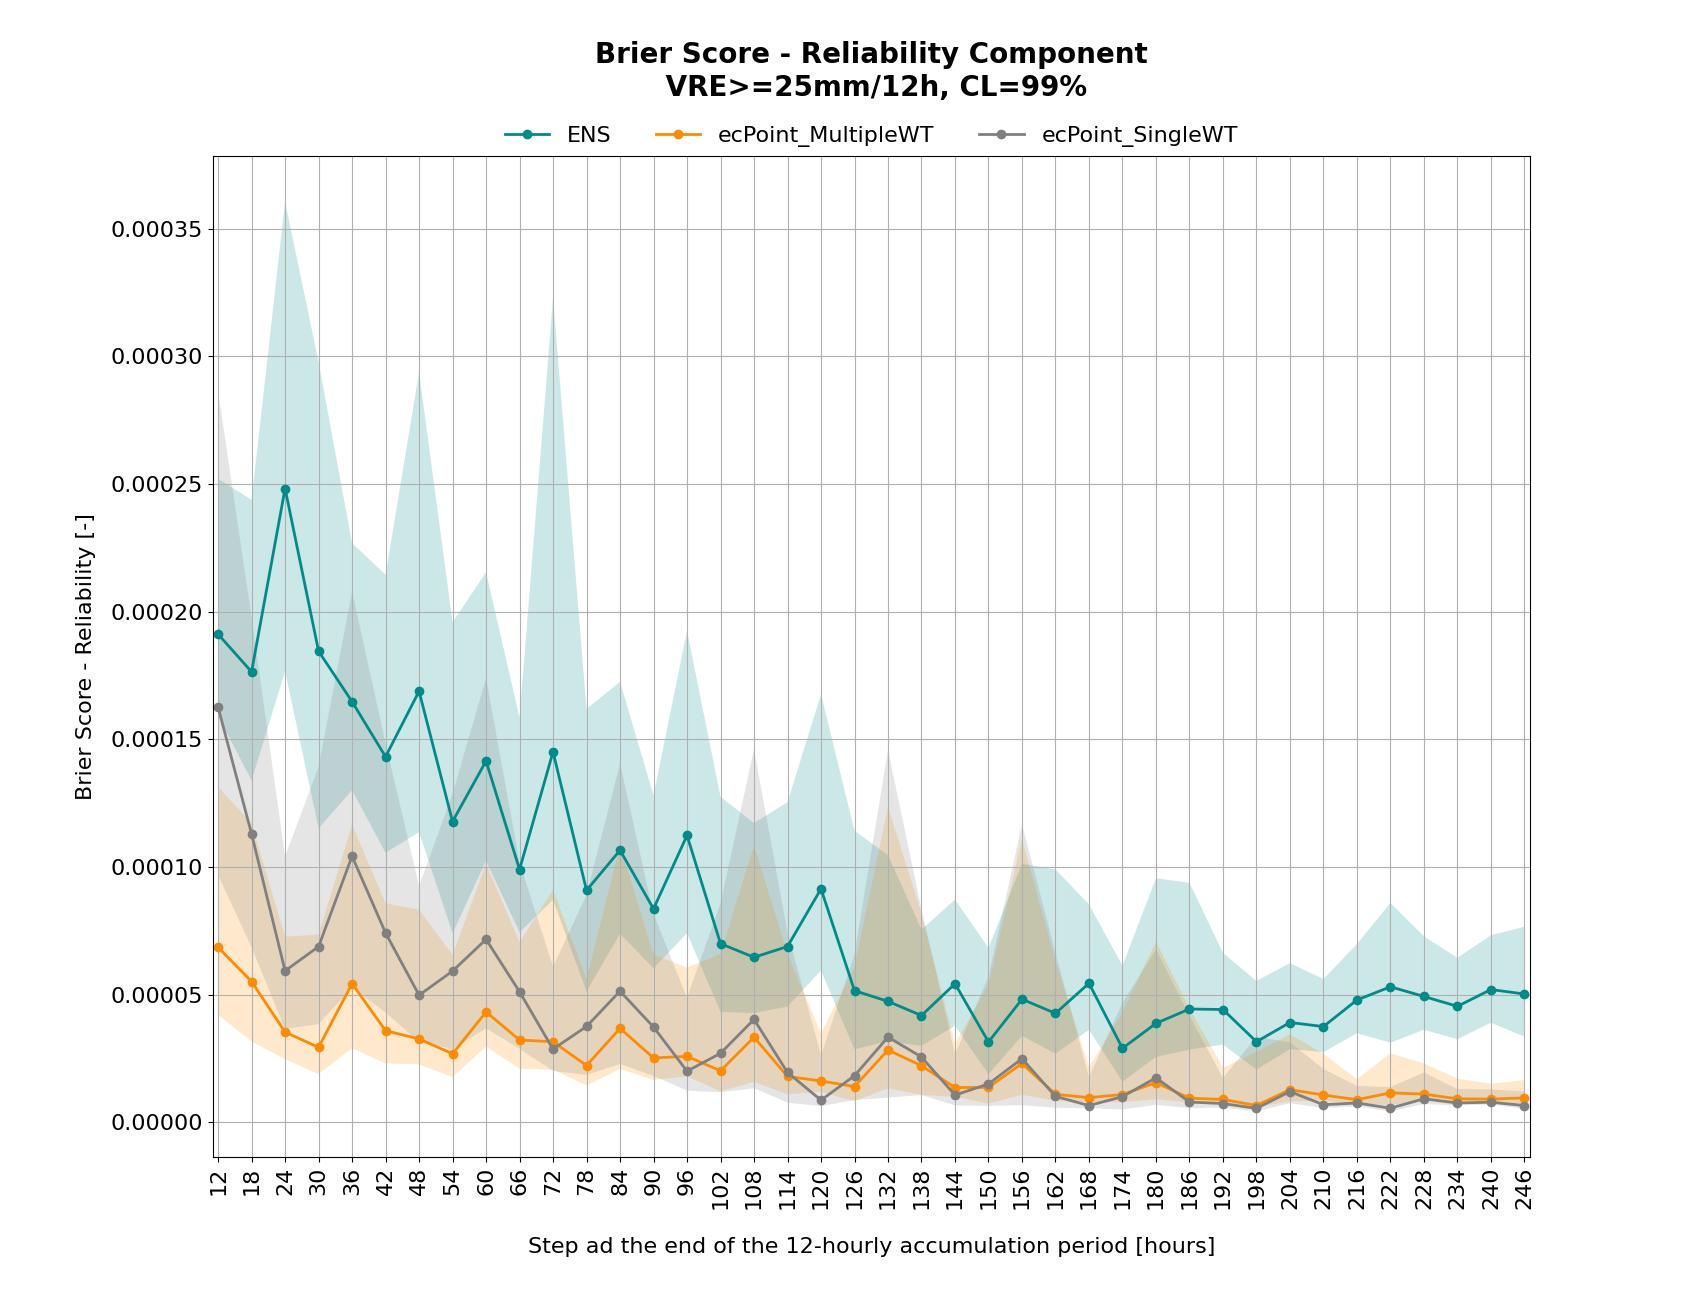
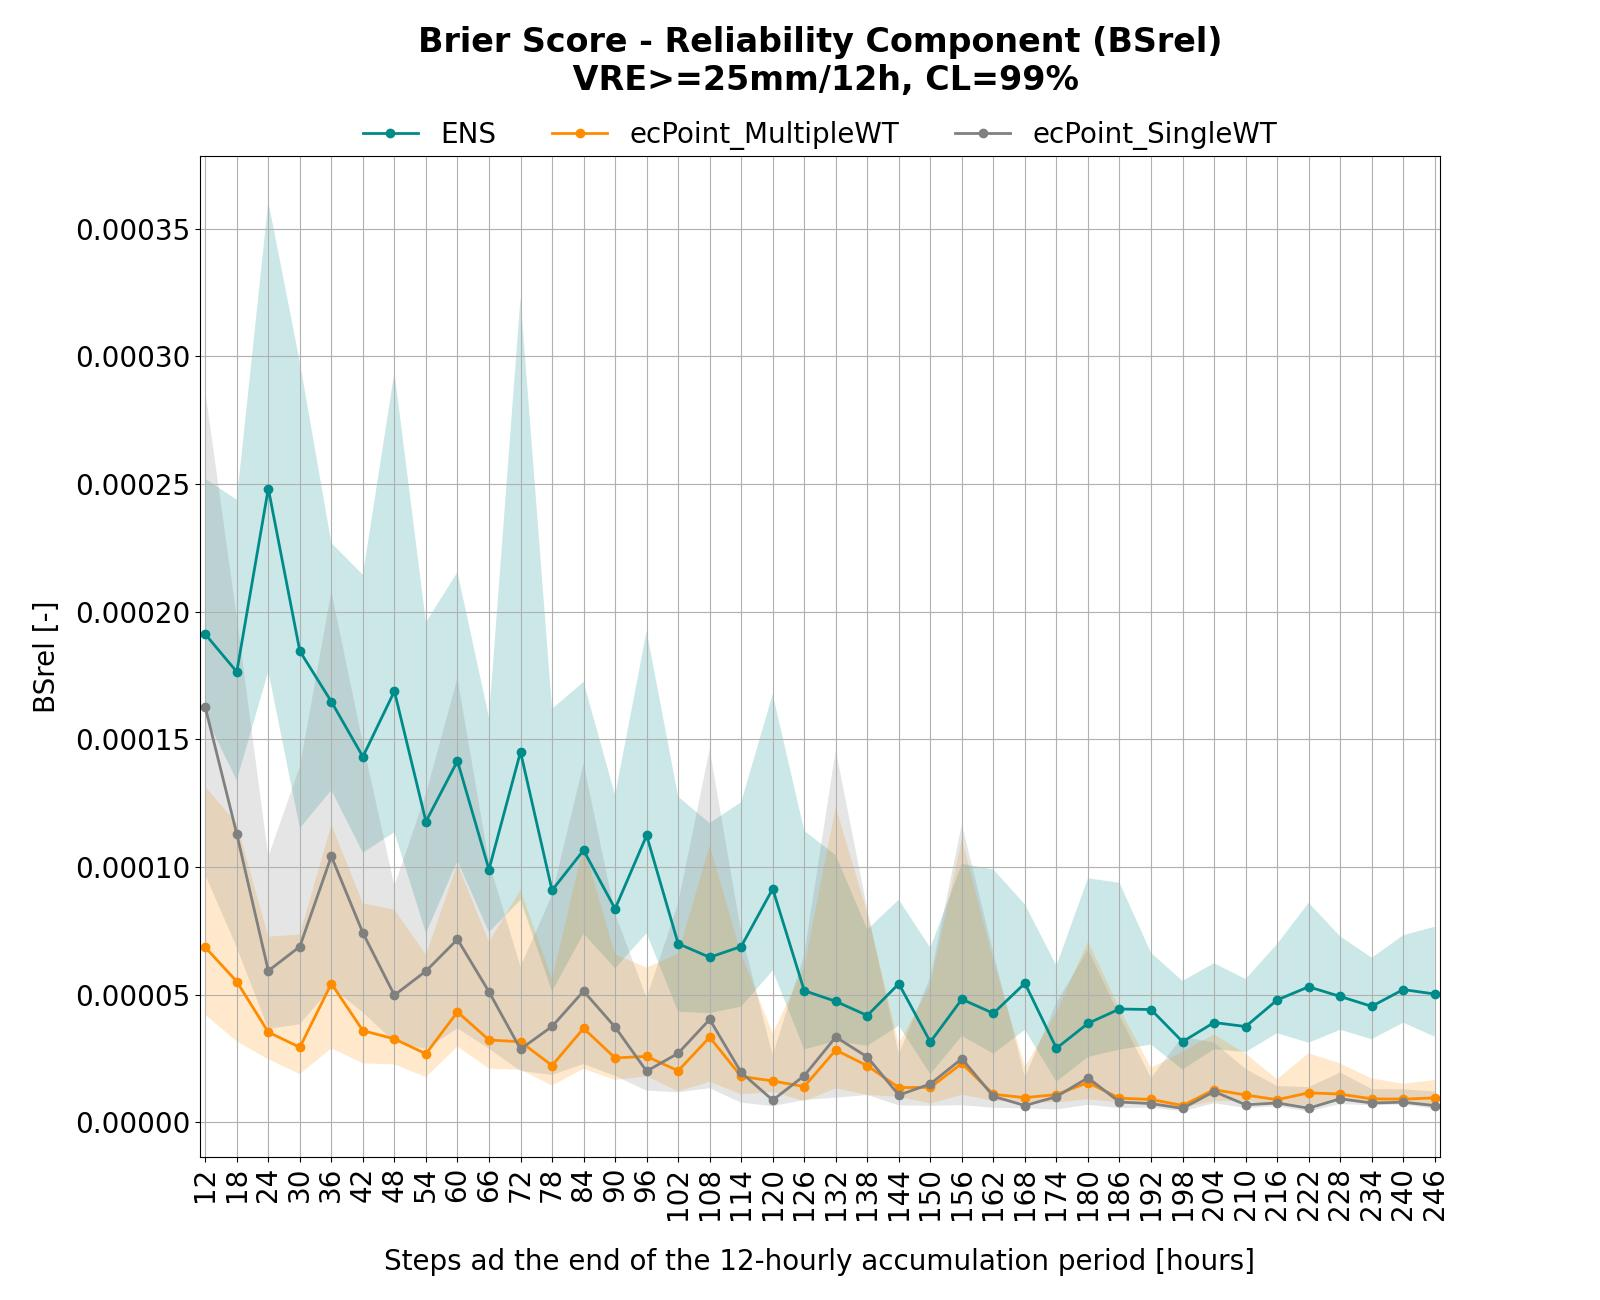
Improved the plots for AROC and BSrel.

diff --git a/Scripts/Processed/07_Plot_AROCt_AROCz_CI.py b/Scripts/Processed/07_Plot_AROCt_AROCz_CI.py
@@ -34,7 +34,7 @@ DirOUT = "Data/Plot/07_AROCt_AROCz_CI"
 for vre in VRE_list:
 
       # Setting the figure
-      fig, ax = plt.subplots(figsize=(17, 13))
+      fig, ax = plt.subplots(figsize=(16, 14))
       
       # Plotting the AROCt and AROCz values for a specific forecasting system
       for indSystemFC in range(len(SystemFC_list)):
@@ -74,16 +74,16 @@ for vre in VRE_list:
 
       # Completing the AROCt and AROCz plots
       DiscStep = ((StepF[-1] - StepF[0]) / (len(StepF)-1))
-      ax.set_title("Area Under the ROC curve, Trapezoidal (AROCt) and Binormal (AROCz)\n VRE>=" + str(vre) + "mm/" + str(Acc) + "h, CL=" + str(CL) + "%\n \n ", fontsize=20, pad=20, weight="bold")
-      ax.set_xlabel(" \nSteps ad the end of the " + str(Acc) + "-hourly accumulation period [hours]", fontsize=16, labelpad=10)
-      ax.set_ylabel("AROCt and AROCz [-]", fontsize=16, labelpad=10)
+      ax.set_title("Area Under the ROC curve, Trapezoidal (AROCt) and Binormal (AROCz)\n VRE>=" + str(vre) + "mm/" + str(Acc) + "h, CL=" + str(CL) + "%\n \n ", fontsize=24, pad=20, weight="bold")
+      ax.set_xlabel(" \nSteps ad the end of the " + str(Acc) + "-hourly accumulation period [hours]", fontsize=20, labelpad=10)
+      ax.set_ylabel("AROCt and AROCz [-]", fontsize=20, labelpad=10)
       ax.set_xlim([StepF[0]-1, StepF[-1]+1])
       ax.set_ylim([0.5,1])
       ax.set_xticks(np.arange(StepF[0], (StepF[-1]+1), DiscStep))
       ax.set_yticks(np.arange(0.5,1.01, 0.1))
-      ax.xaxis.set_tick_params(labelsize=16, rotation=90)
-      ax.yaxis.set_tick_params(labelsize=16)
-      ax.legend(loc="upper center", bbox_to_anchor=(0.5, 1.085), ncol=3, fontsize=16, frameon=False)
+      ax.xaxis.set_tick_params(labelsize=20, rotation=90)
+      ax.yaxis.set_tick_params(labelsize=20)
+      ax.legend(loc="upper center", bbox_to_anchor=(0.5, 1.1), ncol=3, fontsize=20, frameon=False)
       ax.grid()
 
       # Saving the AROCt and AROCz plots

diff --git a/Scripts/Processed/06_Plot_BSrel_CI.py b/Scripts/Processed/06_Plot_BSrel_CI.py
@@ -34,7 +34,7 @@ DirOUT = "Data/Plot/06_BSrel_CI"
 for vre in VRE_list:
 
       # Setting the figure
-      fig, ax = plt.subplots(figsize=(17, 13))
+      fig, ax = plt.subplots(figsize=(16, 13))
       
       # Plotting the BSrel values for a specific forecasting system
       for indSystemFC in range(len(SystemFC_list)):
@@ -61,14 +61,14 @@ for vre in VRE_list:
 
       # Setting the BSrel plot metadata
       DiscStep = ((StepF[-1] - StepF[0]) / (len(StepF)-1))
-      ax.set_title("Brier Score - Reliability Component\n VRE>=" + str(vre) + "mm/" + str(Acc) + "h, CL=" + str(CL) + "%\n ", fontsize=20, pad=20, weight="bold")
-      ax.set_xlabel("Step ad the end of the " + str(Acc) + "-hourly accumulation period [hours]", fontsize=16, labelpad=20)
-      ax.set_ylabel("Brier Score - Reliability [-]", fontsize=16, labelpad=10)
+      ax.set_title("Brier Score - Reliability Component (BSrel)\n VRE>=" + str(vre) + "mm/" + str(Acc) + "h, CL=" + str(CL) + "%\n ", fontsize=24, pad=20, weight="bold")
+      ax.set_xlabel("Steps ad the end of the " + str(Acc) + "-hourly accumulation period [hours]", fontsize=20, labelpad=20)
+      ax.set_ylabel("BSrel [-]", fontsize=20, labelpad=10)
       ax.set_xlim([StepF[0]-1, StepF[-1]+1])
       ax.set_xticks(np.arange(StepF[0], (StepF[-1]+1), DiscStep))
-      ax.xaxis.set_tick_params(labelsize=16, rotation=90)
-      ax.yaxis.set_tick_params(labelsize=16)
-      ax.legend(loc="upper center", bbox_to_anchor=(0.5, 1.05), ncol=3, fontsize=16, frameon=False)
+      ax.xaxis.set_tick_params(labelsize=20, rotation=90)
+      ax.yaxis.set_tick_params(labelsize=20)
+      ax.legend(loc="upper center", bbox_to_anchor=(0.5, 1.06), ncol=3, fontsize=20, frameon=False)
       ax.grid()
 
       # Saving the BSrel plot
